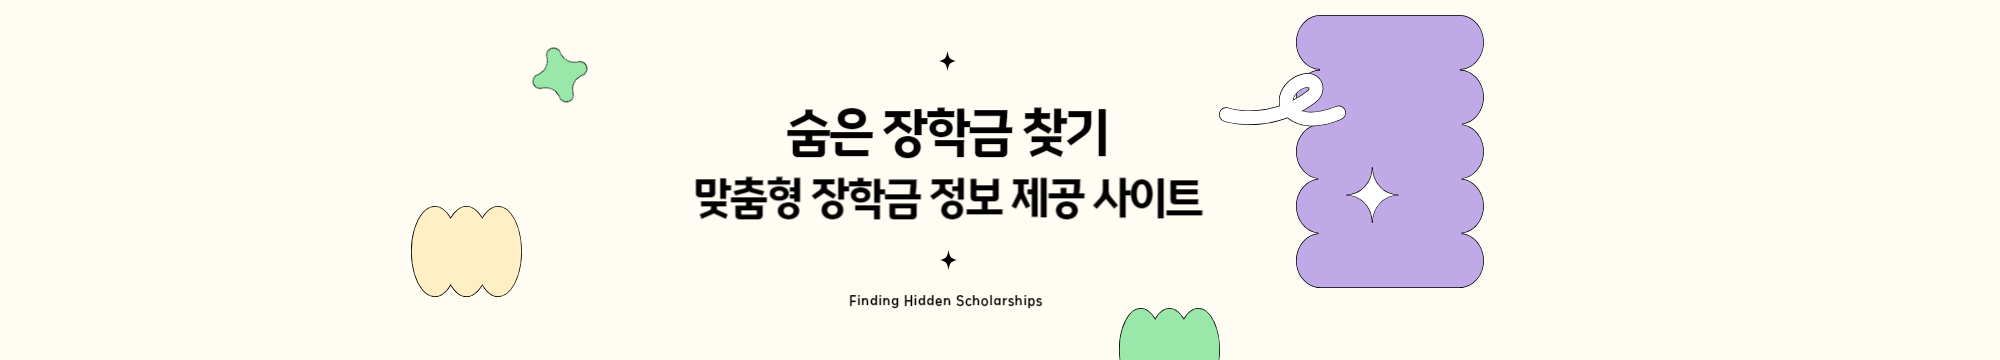
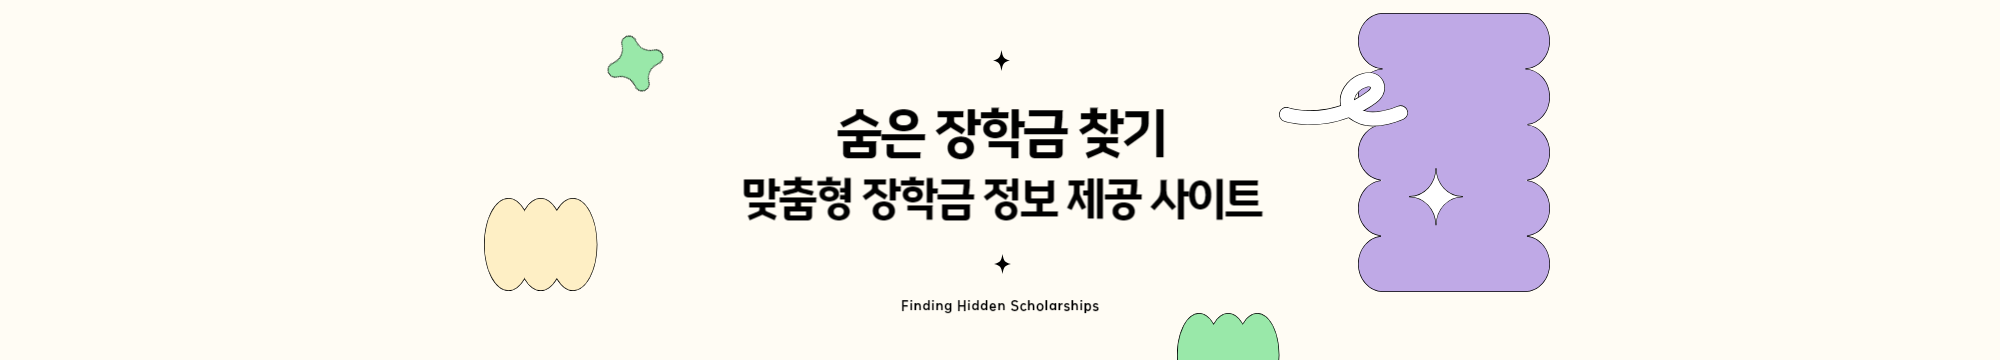
홈페이지 수정

diff --git a/src/style/HomePageStyle.js b/src/style/HomePageStyle.js
@@ -1,27 +1,39 @@
-import styled from "styled-components";
+import styled, { createGlobalStyle } from "styled-components";
+
+/* 브라우저 기본 여백 제거 */
+export const GlobalStyle = createGlobalStyle`
+  body {
+    margin: 0;
+    padding: 0;
+    overflow-x: hidden;
+  }
+`;
 
 export const Banner = styled.div`
-  width: 100%;
-  max-width: 2000px;
-  height: auto;
-  display: flex;
-  align-items: center;
-  justify-content: center;
+  width: 100vw;
+  height: calc(100vw / 5.56);
+  max-width: 100%;
   position: relative;
+  left: 50%;
+  transform: translateX(-50%);
   overflow: hidden;
-  margin: 0 auto;
+  margin: 0;
+  padding: 0;
 
   @media (max-width: 768px) {
-    height: 200px;
+    height: calc(100vw / 3);
+  }
+
+  @media (max-width: 480px) {
+    height: calc(100vw / 2);
   }
 `;
 
 export const SwiperSlideImage = styled.img`
   width: 100%;
-  height: auto;
-  aspect-ratio: 5.56;
+  height: 100%;
   object-fit: cover;
-  object-position: center;
+  object-position: 50% 50%;
 `;
 
 export const MainContent = styled.div`
@@ -54,14 +66,18 @@ export const KingSection = styled.div`
 `;
 
 export const KingText = styled.div`
-  font-size: 25px;
+  font-size: 2em;
   font-weight: bold;
   color: black;
   margin-bottom: 20px;
   text-align: left;
 
   @media (max-width: 768px) {
-    font-size: 20px;
+    font-size: 1.5em;
+  }
+
+  @media (max-width: 480px) {
+    font-size: 1.2em;
   }
 `;
 
@@ -72,6 +88,14 @@ export const ListContainer = styled.div`
   justify-content: center;
   flex-wrap: wrap;
   width: 100%;
+
+  @media (max-width: 768px) {
+    gap: 40px;
+  }
+
+  @media (max-width: 480px) {
+    gap: 20px;
+  }
 `;
 
 export const ListBox = styled.div`
@@ -93,8 +117,14 @@ export const ListBox = styled.div`
   }
 
   @media (max-width: 768px) {
-    width: 120px;
-    height: 120px;
-    font-size: 0.9em;
+    width: 140px;
+    height: 140px;
+    font-size: 1em;
+  }
+
+  @media (max-width: 480px) {
+    width: 100px;
+    height: 100px;
+    font-size: 0.8em;
   }
 `;

diff --git a/src/pages/HomePage.js b/src/pages/HomePage.js
@@ -8,11 +8,12 @@ import Banner1 from "../png/배너001.png";
 import Banner2 from "../png/배너002.png";
 import Banner3 from "../png/배너003.png";
 import Banner4 from "../png/배너004.png";
-import { Banner, MainContent, KingSection, KingText, ListContainer, ListBox, SwiperSlideImage } from "../style/HomePageStyle";
+import { Banner, MainContent, KingSection, KingText, ListContainer, ListBox, SwiperSlideImage, GlobalStyle } from "../style/HomePageStyle";
 
 const HomePage = () => {
   return (
     <div>
+       <GlobalStyle />
       <Banner>
         <Swiper
           spaceBetween={0}
@@ -21,7 +22,6 @@ const HomePage = () => {
           pagination={{ clickable: true }}
           autoplay={{ delay: 2500, disableOnInteraction: false }}
           modules={[Autoplay, Navigation, Pagination]}
-          className="swiper-container"
         >
           <SwiperSlide>
             <SwiperSlideImage src={Banner1} alt="배너1" />
